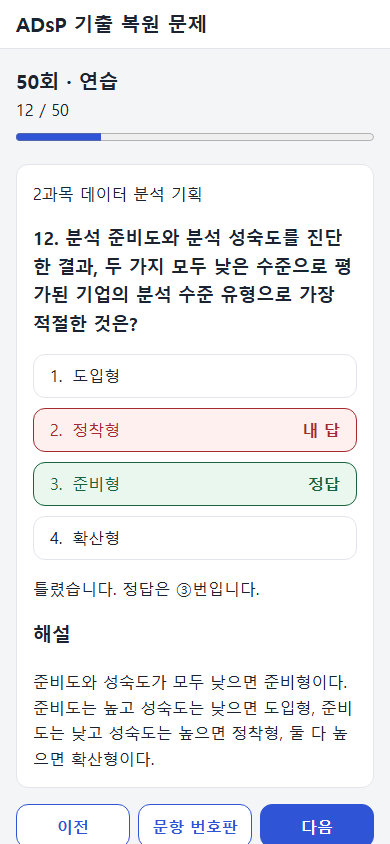
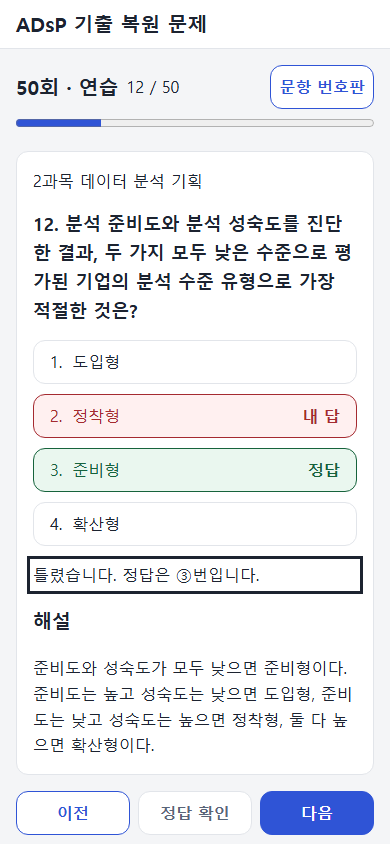
연습: 정답 확인 버튼 추가 (#3)

diff --git a/src/pages/PracticePage.test.tsx b/src/pages/PracticePage.test.tsx
@@ -40,9 +40,79 @@ test('renders all stimuli safely and hides answers before selection', async () =
   await waitFor(() => expect(screen.queryByRole('heading', { name: '해설' })).toBeNull());
   await waitFor(() => expect((screen.getByRole('button', { name: '이전' }) as HTMLButtonElement).disabled).toBe(true));
 });
+test('drafts toggle and change without grading or saving, survive navigation but not reopening', async () => {
+  await ready();
+  const confirm = screen.getByRole('button', { name: '정답 확인' });
+  const nav = confirm.closest('nav')!;
+  const buttonsPresent = () => expect(within(nav).getAllByRole('button').length).toBe(3);
+  buttonsPresent();
+  expect(confirm.getAttribute('aria-disabled')).toBe('true');
+  expect((confirm as HTMLButtonElement).disabled).toBe(false);
+  fireEvent.click(confirm);
+  await waitFor(() => expect(screen.queryByRole('status')).toBeNull());
+  for (const [key, selected] of [['1', '1'], ['2', '2'], ['2', undefined], ['3', '3']]) {
+    fireEvent.keyDown(window, { key });
+    await waitFor(() => {
+      const choices = within(screen.getByRole('article')).getAllByRole('button');
+      choices.forEach((choice, index) => expect(choice.getAttribute('aria-pressed')).toBe(String(String(index + 1) === selected)));
+    });
+  }
+  await waitFor(() => expect(screen.getByRole('button', { name: /3\. 표본 보기 셋/ }).getAttribute('aria-pressed')).toBe('true'));
+  buttonsPresent();
+  expect(confirm.className).toBe('');
+  expect(screen.queryByText('정답')).toBeNull();
+  expect(screen.queryByText('내 답')).toBeNull();
+  expect(screen.queryByRole('status')).toBeNull();
+  expect(screen.queryByRole('heading', { name: '해설' })).toBeNull();
+  expect(localStorage.getItem('adsp-cbt:v1:50:practice')).toBeNull();
+  fireEvent.click(screen.getByRole('button', { name: '다음' }));
+  await screen.findByRole('heading', { name: /^2\. 표본/ });
+  expect(await screen.findByRole('button', { name: '1번, 안 푼 문제' })).toBeTruthy();
+  fireEvent.click(screen.getByRole('button', { name: '이전' }));
+  expect(await screen.findByText('선택됨')).toBeTruthy();
+  expect(JSON.parse(localStorage.getItem('adsp-cbt:v1:50:practice')!).answers).toEqual({});
+  cleanup();
+  await ready();
+  await waitFor(() => expect(screen.queryByText('선택됨')).toBeNull());
+});
+test('click selection can change and clear, and interactive Enter only activates its own control', async () => {
+  await ready();
+  const one = screen.getByRole('button', { name: '1. 표본 보기 하나' });
+  const two = screen.getByRole('button', { name: '2. 표본 보기 둘' });
+  fireEvent.click(one);
+  await waitFor(() => expect(one.getAttribute('aria-pressed')).toBe('true'));
+  fireEvent.click(two);
+  await waitFor(() => expect(one.getAttribute('aria-pressed')).toBe('false'));
+  fireEvent.click(two);
+  await waitFor(() => expect(two.getAttribute('aria-pressed')).toBe('false'));
+  fireEvent.click(two);
+  await waitFor(() => expect(two.getAttribute('aria-pressed')).toBe('true'));
+  two.focus();
+  expect(fireEvent.keyDown(two, { key: 'Enter' })).toBe(true);
+  await waitFor(() => expect(screen.queryByRole('status')).toBeNull());
+  const confirm = screen.getByRole('button', { name: '정답 확인' });
+  const writes = vi.spyOn(Storage.prototype, 'setItem');
+  confirm.focus();
+  expect(fireEvent.keyDown(confirm, { key: 'Enter' })).toBe(true);
+  fireEvent.click(confirm);
+  const result = await screen.findByRole('status');
+  await waitFor(() => expect(document.activeElement).toBe(result));
+  expect(writes).toHaveBeenCalledTimes(1);
+  expect(confirm.getAttribute('aria-disabled')).toBe('true');
+  expect(screen.getByRole('button', { name: '다음' }).className).toBe('');
+  expect(within(confirm.closest('nav')!).getAllByRole('button').length).toBe(3);
+  fireEvent.keyDown(window, { key: '1' });
+  fireEvent.keyDown(window, { key: 'Enter' });
+  fireEvent.click(confirm);
+  await waitFor(() => expect(writes).toHaveBeenCalledTimes(1));
+  writes.mockRestore();
+  expect(screen.getByRole('button', { name: '문항 번호판' }).closest('.practice-heading')).toBeTruthy();
+});
 test('keyboard choices lock while remaining focusable and arrows focus the new question', async () => {
   await ready();
   fireEvent.keyDown(window, { key: '2', code: 'Numpad2' });
+  await waitFor(() => expect(screen.getByRole('button', { name: /2\. 표본 보기 둘/ }).getAttribute('aria-pressed')).toBe('true'));
+  fireEvent.keyDown(window, { key: 'Enter' });
   const chosen = screen.getByRole('button', { name: /2\. 표본 보기 둘/ });
   await waitFor(() => expect(chosen.getAttribute('aria-disabled')).toBe('true'));
   await waitFor(() => expect((chosen as HTMLButtonElement).disabled).toBe(false));
@@ -115,6 +185,7 @@ test('restart from second question removes the record and navigation writes once
 test.each([1, 2])('grades selection %s once and preserves state through navigation', async answer => {
   await ready();
   fireEvent.click(screen.getByRole('button', { name: answer === 1 ? '1. 표본 보기 하나' : '2. 표본 보기 둘' }));
+  fireEvent.click(screen.getByRole('button', { name: '정답 확인' }));
   await waitFor(() => expect(screen.getByRole('status').textContent).toBe(answer === 2 ? '맞았습니다.' : '틀렸습니다. 정답은 ②번입니다.'));
   expect(await screen.findByText('정답')).toBeTruthy();
   await waitFor(() => expect(Boolean(screen.queryByText('내 답'))).toBe(answer === 1));
@@ -137,6 +208,7 @@ test('board opens, moves, closes and restarts without confirmation', async () =>
   await waitFor(() => expect(screen.queryByRole('dialog')).toBeNull());
   await screen.findByRole('heading', { name: /^2\. 표본/ });
   fireEvent.click(screen.getByRole('button', { name: '2. 표본 보기 둘' }));
+  fireEvent.click(screen.getByRole('button', { name: '정답 확인' }));
   expect(await screen.findByRole('button', { name: '2번, 맞은 문제, 현재 문제' })).toBeTruthy();
   fireEvent.click(screen.getByRole('button', { name: '처음부터 다시' }));
   await waitFor(() => expect(window.location.hash).toContain('q=1'));
@@ -158,6 +230,7 @@ test('round request failure can be retried', async () => {
 test('reopening practice resumes answers and current question', async () => {
   await ready();
   fireEvent.click(screen.getByRole('button', { name: '2. 표본 보기 둘' }));
+  fireEvent.click(screen.getByRole('button', { name: '정답 확인' }));
   fireEvent.click(screen.getByRole('button', { name: '다음' }));
   await waitFor(() => expect(JSON.parse(localStorage.getItem('adsp-cbt:v1:50:practice')!)).toEqual({ answers: { 1: 2 }, current: 2 }));
   fireEvent.click(screen.getByRole('link', { name: 'ADsP 기출 복원 문제' }));
@@ -172,6 +245,7 @@ test('a new app instance restores saved answers and position', async () => {
   fireEvent.click(screen.getByRole('button', { name: '다음' }));
   await screen.findByRole('heading', { name: /^2\. 표본/ });
   fireEvent.click(screen.getByRole('button', { name: '1. 표본 보기 하나' }));
+  fireEvent.click(screen.getByRole('button', { name: '정답 확인' }));
   await waitFor(() => expect(JSON.parse(localStorage.getItem('adsp-cbt:v1:50:practice')!)).toEqual({ answers: { 2: 1 }, current: 2 }));
   cleanup();
   window.location.hash = '#/rounds/50/practice';
@@ -192,6 +266,7 @@ test('failed persistence shows a notice while practice continues', async () => {
   try {
     await ready();
     fireEvent.click(screen.getByRole('button', { name: '2. 표본 보기 둘' }));
+    fireEvent.click(screen.getByRole('button', { name: '정답 확인' }));
     expect(await screen.findByText('이 브라우저에서는 풀이 기록을 저장할 수 없습니다.')).toBeTruthy();
     await waitFor(() => expect(screen.getByRole('status').textContent).toBe('맞았습니다.'));
   } finally { spy.mockRestore(); }

diff --git a/src/pages/PracticePage.tsx b/src/pages/PracticePage.tsx
@@ -17,6 +17,7 @@ function PracticeRound({ data }: { data: RoundData }) {
   const [record, setRecord] = useState(() => store.read(data.round, 'practice', data.questions.length) ?? { answers: {}, current: 1 });
   const [persistent, setPersistent] = useState(store.canPersist);
   const answers = record.answers as Readonly<Record<number, Answer>>;
+  const [drafts, setDrafts] = useState<Record<number, Answer | undefined>>({});
   const [open, setOpen] = useState(false);
   const resized = useRef(false);
   useEffect(() => {
@@ -62,20 +63,29 @@ function PracticeRound({ data }: { data: RoundData }) {
     }
   }, [store, data.round, record, current]);
   const restart = () => {
+    setDrafts({});
     restarting.current = true;
     store.remove(data.round, 'practice'); setRecord({ answers: {}, current: 1 });
     setPersistent(store.canPersist()); setParams({ q: '1' }, { replace: true }); setOpen(false);
   };
-  useQuestionKeys({ blocked: open, previous: current > 1 ? () => move(current - 1) : undefined, next: current < data.questions.length ? () => move(current + 1) : undefined, choose: answer => { if (answers[current] === undefined) save(selectPracticeAnswer({ ...record, current }, current, answer)); } });
+  const confirmed = answers[current] !== undefined;
+  const draft = drafts[current];
+  const choose = (answer: Answer) => {
+    if (!confirmed) setDrafts(previous => ({ ...previous, [current]: previous[current] === answer ? undefined : answer }));
+  };
+  const confirm = () => {
+    if (!confirmed && draft !== undefined) save(selectPracticeAnswer({ ...record, current }, current, draft));
+  };
+  useQuestionKeys({ blocked: open, previous: current > 1 ? () => move(current - 1) : undefined, next: current < data.questions.length ? () => move(current + 1) : undefined, choose, confirm: !confirmed && draft !== undefined ? confirm : undefined });
   const question = data.questions[current - 1];
   const board = <QuestionBoard data={data} current={current} answers={answers} move={move} restart={restart} />;
   return <>
-    <div className="practice-heading"><h2>{data.round}회 · 연습</h2><p>{current} / {data.questions.length}</p><progress aria-label="현재 문제 위치" value={current} max={data.questions.length} /></div>
+    <div className="practice-heading"><div className="practice-heading-row"><h2>{data.round}회 · 연습</h2><p>{current} / {data.questions.length}</p><button className="board-toggle secondary" onClick={() => setOpen(true)}>문항 번호판</button></div><progress aria-label="현재 문제 위치" value={current} max={data.questions.length} /></div>
     {!persistent && <p className="notice">이 브라우저에서는 풀이 기록을 저장할 수 없습니다.</p>}
     <div className="practice-layout"><div className="practice-main">
-      <QuestionView question={question} subjects={data.subjects} selected={answers[question.number]} choose={answer => save(selectPracticeAnswer({ ...record, current }, question.number, answer))} />
-      <nav className="practice-nav" aria-label="문제 이동"><button className="secondary" disabled={current === 1} onClick={() => move(current - 1)}>이전</button><button className="board-toggle secondary" onClick={() => setOpen(true)}>문항 번호판</button>
-        {current === data.questions.length ? <Link className="button" to="/">회차 목록</Link> : <button onClick={() => move(current + 1)}>다음</button>}
+      <QuestionView question={question} subjects={data.subjects} selected={answers[current] ?? draft} confirmed={confirmed} choose={choose} />
+      <nav className="practice-nav" aria-label="문제 이동"><button className="secondary" disabled={current === 1} onClick={() => move(current - 1)}>이전</button><button className={!confirmed && draft !== undefined ? '' : 'secondary'} aria-disabled={confirmed || draft === undefined} onClick={confirm}>정답 확인</button>
+        {current === data.questions.length ? <Link className={`button ${confirmed ? '' : 'secondary'}`} to="/">회차 목록</Link> : <button className={confirmed ? '' : 'secondary'} onClick={() => move(current + 1)}>다음</button>}
       </nav>
     </div><aside className="desktop-board" aria-label="문항 번호판">{board}</aside></div>
     {open && <Modal label="문항 번호판" close={() => setOpen(false)}><button className="secondary" onClick={() => setOpen(false)}>닫기</button>{board}</Modal>}

diff --git a/src/components/QuestionView.tsx b/src/components/QuestionView.tsx
@@ -3,11 +3,17 @@ import type { Answer, Question, RoundData } from '../data/types';
 import { dataUrl } from '../data/loadRound';
 import { MathText } from './MathText';
 const circled = ['①', '②', '③', '④'];
-export function QuestionView({ question: q, subjects, selected, choose, mode = 'practice' }: {
-  question: Question; subjects: RoundData['subjects']; selected?: Answer; choose: (answer: Answer) => void; mode?: 'practice' | 'exam' | 'review';
+export function QuestionView({ question: q, subjects, selected, choose, mode = 'practice', confirmed = selected !== undefined }: {
+  question: Question; subjects: RoundData['subjects']; selected?: Answer; choose: (answer: Answer) => void; mode?: 'practice' | 'exam' | 'review'; confirmed?: boolean;
 }) {
   const title = useRef<HTMLHeadingElement>(null);
   const previous = useRef(q.number);
+  const result = useRef<HTMLParagraphElement>(null);
+  const wasConfirmed = useRef(confirmed);
+  useEffect(() => {
+    if (mode === 'practice' && confirmed && !wasConfirmed.current) result.current?.focus();
+    wasConfirmed.current = confirmed;
+  }, [confirmed, mode, q.number]);
   useEffect(() => {
     if (previous.current !== q.number) title.current?.focus();
     previous.current = q.number;
@@ -23,12 +29,14 @@ export function QuestionView({ question: q, subjects, selected, choose, mode = '
     </div>)}
     <div className="choices">{q.choices.map((choice, index) => {
       const answer = (index + 1) as Answer;
-      const correct = (mode === 'review' || mode === 'practice' && selected !== undefined) && answer === q.answer;
-      const wrong = mode !== 'exam' && selected === answer && answer !== q.answer;
-      const locked = mode === 'review' || mode === 'practice' && selected !== undefined;
-      return <button key={answer} disabled={mode === 'review'} aria-disabled={locked || undefined} aria-pressed={mode === 'exam' ? selected === answer : undefined} className={`choice ${correct ? 'correct' : wrong ? 'wrong' : mode === 'exam' && selected === answer ? 'selected' : ''}`} onClick={() => { if (!locked) choose(answer); }}>
+      const graded = mode === 'review' || mode === 'practice' && confirmed;
+      const correct = graded && answer === q.answer;
+      const wrong = graded && selected === answer && answer !== q.answer;
+      const locked = graded;
+      const selecting = mode === 'exam' || mode === 'practice' && !confirmed;
+      return <button key={answer} disabled={mode === 'review'} aria-disabled={locked || undefined} aria-pressed={selecting ? selected === answer : undefined} className={`choice ${correct ? 'correct' : wrong ? 'wrong' : selecting && selected === answer ? 'selected' : ''}`} onClick={() => { if (!locked) choose(answer); }}>
         <span>{answer}.</span>{' '}<span><MathText text={choice} /></span>{correct && <>{' '}<strong>정답</strong></>}{wrong && <>{' '}<strong>내 답</strong></>}
-        {mode === 'exam' && selected === answer && <>{' '}<strong>선택됨</strong></>}
+        {selecting && selected === answer && <>{' '}<strong>선택됨</strong></>}
         {mode === 'review' && correct && selected === answer && <>{' '}<strong>내 답</strong></>}
       </button>;
     })}</div>
@@ -36,8 +44,8 @@ export function QuestionView({ question: q, subjects, selected, choose, mode = '
       {selected === undefined && <p>풀지 않음</p>}
       <h3>해설</h3><p><MathText text={q.explanation} /></p>
     </section>}
-    {mode === 'practice' && selected !== undefined && <section className="feedback" aria-label="풀이 결과">
-      <p role="status">{selected === q.answer ? '맞았습니다.' : `틀렸습니다. 정답은 ${circled[q.answer - 1]}번입니다.`}</p>
+    {mode === 'practice' && confirmed && selected !== undefined && <section className="feedback" aria-label="풀이 결과">
+      <p ref={result} tabIndex={-1} role="status">{selected === q.answer ? '맞았습니다.' : `틀렸습니다. 정답은 ${circled[q.answer - 1]}번입니다.`}</p>
       <h3>해설</h3><p><MathText text={q.explanation} /></p>
     </section>}
   </article>;

diff --git a/src/components/useQuestionKeys.ts b/src/components/useQuestionKeys.ts
@@ -1,8 +1,8 @@
 import { useEffect } from 'react';
 import type { Answer } from '../data/types';
 
-export function useQuestionKeys({ blocked = false, previous, next, choose }: {
-  blocked?: boolean; previous?: () => void; next?: () => void; choose?: (answer: Answer) => void;
+export function useQuestionKeys({ blocked = false, previous, next, choose, confirm }: {
+  blocked?: boolean; previous?: () => void; next?: () => void; choose?: (answer: Answer) => void; confirm?: () => void;
 }) {
   useEffect(() => {
     const handle = (event: KeyboardEvent) => {
@@ -10,10 +10,11 @@ export function useQuestionKeys({ blocked = false, previous, next, choose }: {
       if (blocked || event.ctrlKey || event.altKey || event.metaKey ||
         target instanceof Element && target.closest('input, textarea, select, [contenteditable]:not([contenteditable="false"])')) return;
       const digit = /^[1-4]$/.test(event.key) ? Number(event.key) : /^Numpad[1-4]$/.test(event.code) ? Number(event.code.slice(-1)) : undefined;
-      const action = event.key === 'ArrowLeft' ? previous : event.key === 'ArrowRight' ? next : digit && choose ? () => choose(digit as Answer) : undefined;
+      const interactive = target instanceof Element && target.closest('button, a, [role="button"], [role="link"]');
+      const action = event.key === 'Enter' && !interactive ? confirm : event.key === 'ArrowLeft' ? previous : event.key === 'ArrowRight' ? next : digit && choose ? () => choose(digit as Answer) : undefined;
       if (action) { event.preventDefault(); action(); }
     };
     window.addEventListener('keydown', handle);
     return () => window.removeEventListener('keydown', handle);
-  }, [blocked, previous, next, choose]);
+  }, [blocked, previous, next, choose, confirm]);
 }

diff --git a/src/components/useQuestionKeys.test.tsx b/src/components/useQuestionKeys.test.tsx
@@ -2,6 +2,26 @@ import { cleanup, fireEvent, render } from '@testing-library/react';
 import { afterEach, expect, test, vi } from 'vitest';
 import { useQuestionKeys } from './useQuestionKeys';
 afterEach(cleanup);
+test('Enter confirms only outside interactive targets and respects shortcut guards', () => {
+  const confirm = vi.fn();
+  function Host({ blocked = false, enabled = true }) {
+    useQuestionKeys({ blocked, confirm: enabled ? confirm : undefined });
+    return <><h2 tabIndex={-1}>Question</h2><button><span>Action</span></button><a href="#">Link</a><input /><textarea /><select /><div contentEditable>Editable</div></>;
+  }
+  const view = render(<Host />);
+  fireEvent.keyDown(document.body, { key: 'Enter' });
+  fireEvent.keyDown(view.container.querySelector('h2')!, { key: 'Enter' });
+  expect(confirm).toHaveBeenCalledTimes(2);
+  for (const target of view.container.querySelectorAll('button, span, a, input, textarea, select, [contenteditable]')) {
+    expect(fireEvent.keyDown(target, { key: 'Enter' })).toBe(true);
+  }
+  for (const modifier of ['ctrlKey', 'altKey', 'metaKey']) fireEvent.keyDown(window, { key: 'Enter', [modifier]: true });
+  view.rerender(<Host blocked />);
+  fireEvent.keyDown(window, { key: 'Enter' });
+  view.rerender(<Host enabled={false} />);
+  expect(fireEvent.keyDown(window, { key: 'Enter' })).toBe(true);
+  expect(confirm).toHaveBeenCalledTimes(2);
+});
 test('central shortcuts handle numpad and ignore modifiers, dialogs and editable targets', () => {
   const choose = vi.fn(), previous = vi.fn(), next = vi.fn();
   function Host({ blocked = false }) {

diff --git a/src/styles/main.css b/src/styles/main.css
@@ -51,6 +51,9 @@ footer { padding: var(--space-medium); text-align: center; font-size: var(--font
 h1, h2, p, a { overflow-wrap: anywhere; }
 @media (min-width: 768px) { main { padding-block: var(--space-large); } }
 .practice-heading { margin-bottom: 16px; }
+.practice-heading-row { display: flex; align-items: center; gap: 8px; }
+.practice-heading-row .board-toggle { margin-left: auto; padding-inline: 8px; white-space: nowrap; }
+.practice-nav button[aria-disabled="true"] { color: var(--muted); border-color: var(--border); background: var(--surface); cursor: default; }
 progress { width: 100%; accent-color: var(--accent); }
 .practice-main, .question-card, .stimulus { min-width: 0; }
 .question-card, .desktop-board, .mobile-board { background: white; border: 1px solid var(--border); border-radius: 12px; padding: 16px; }
